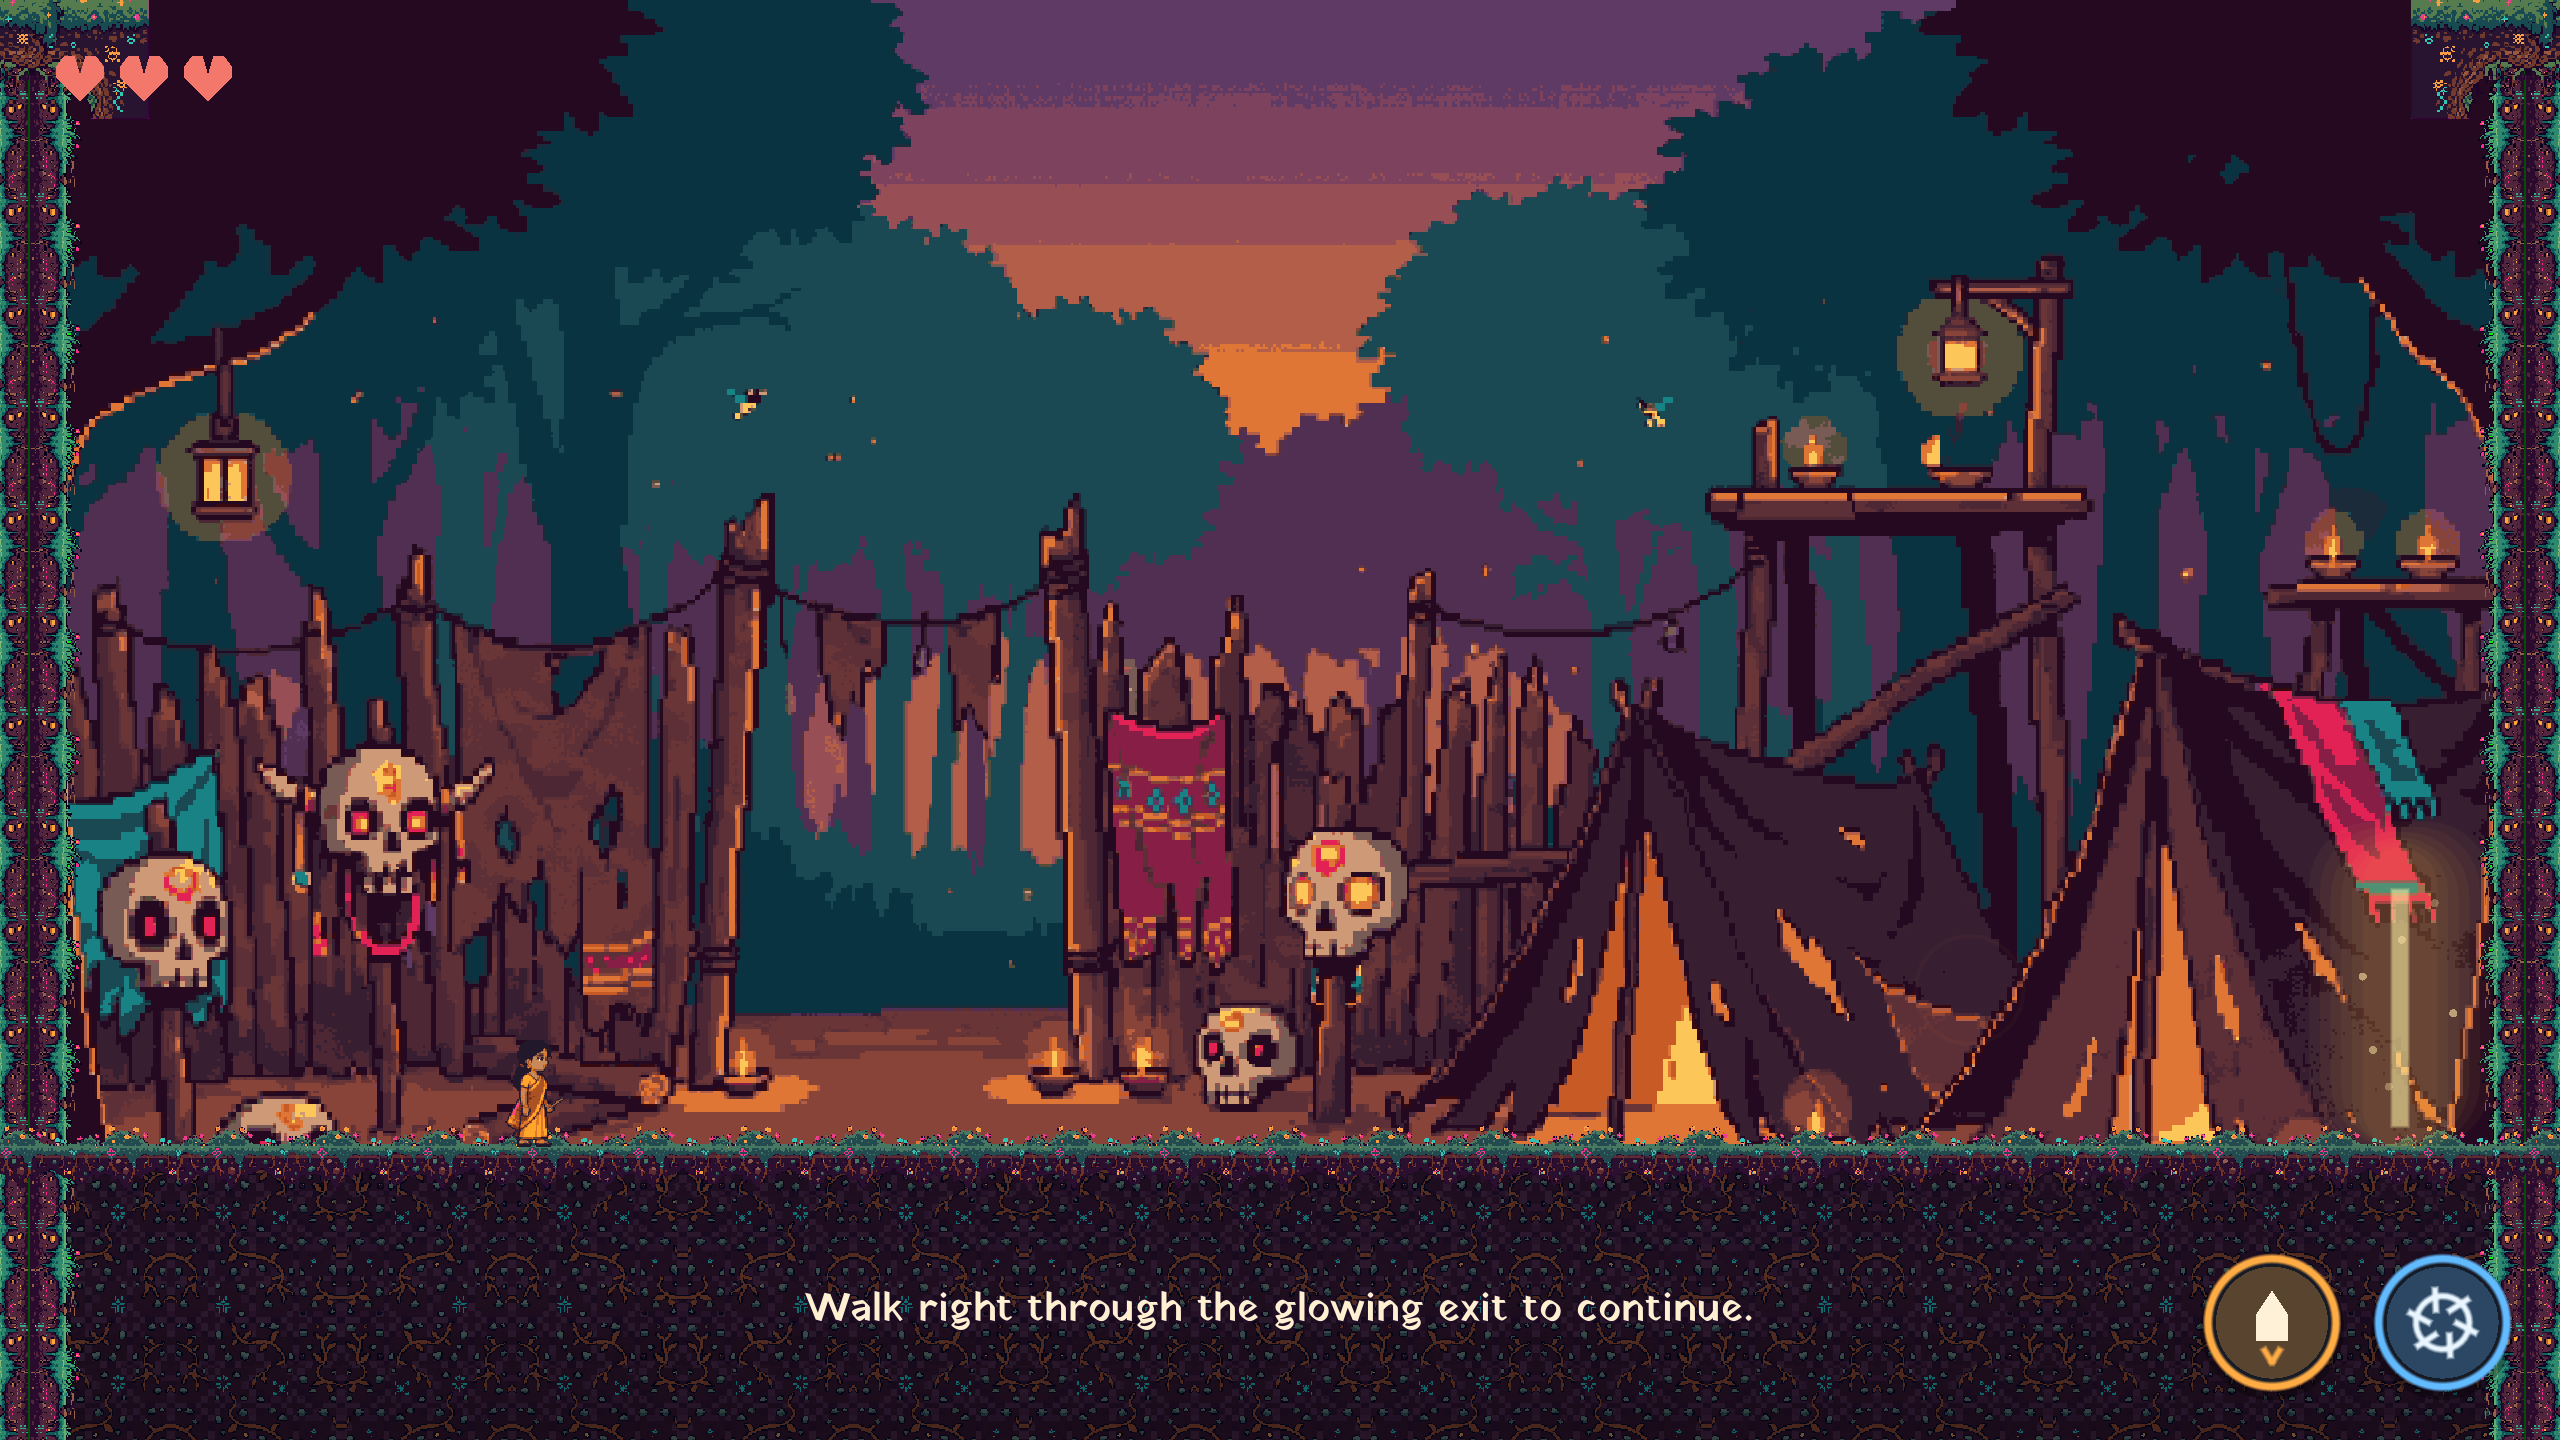
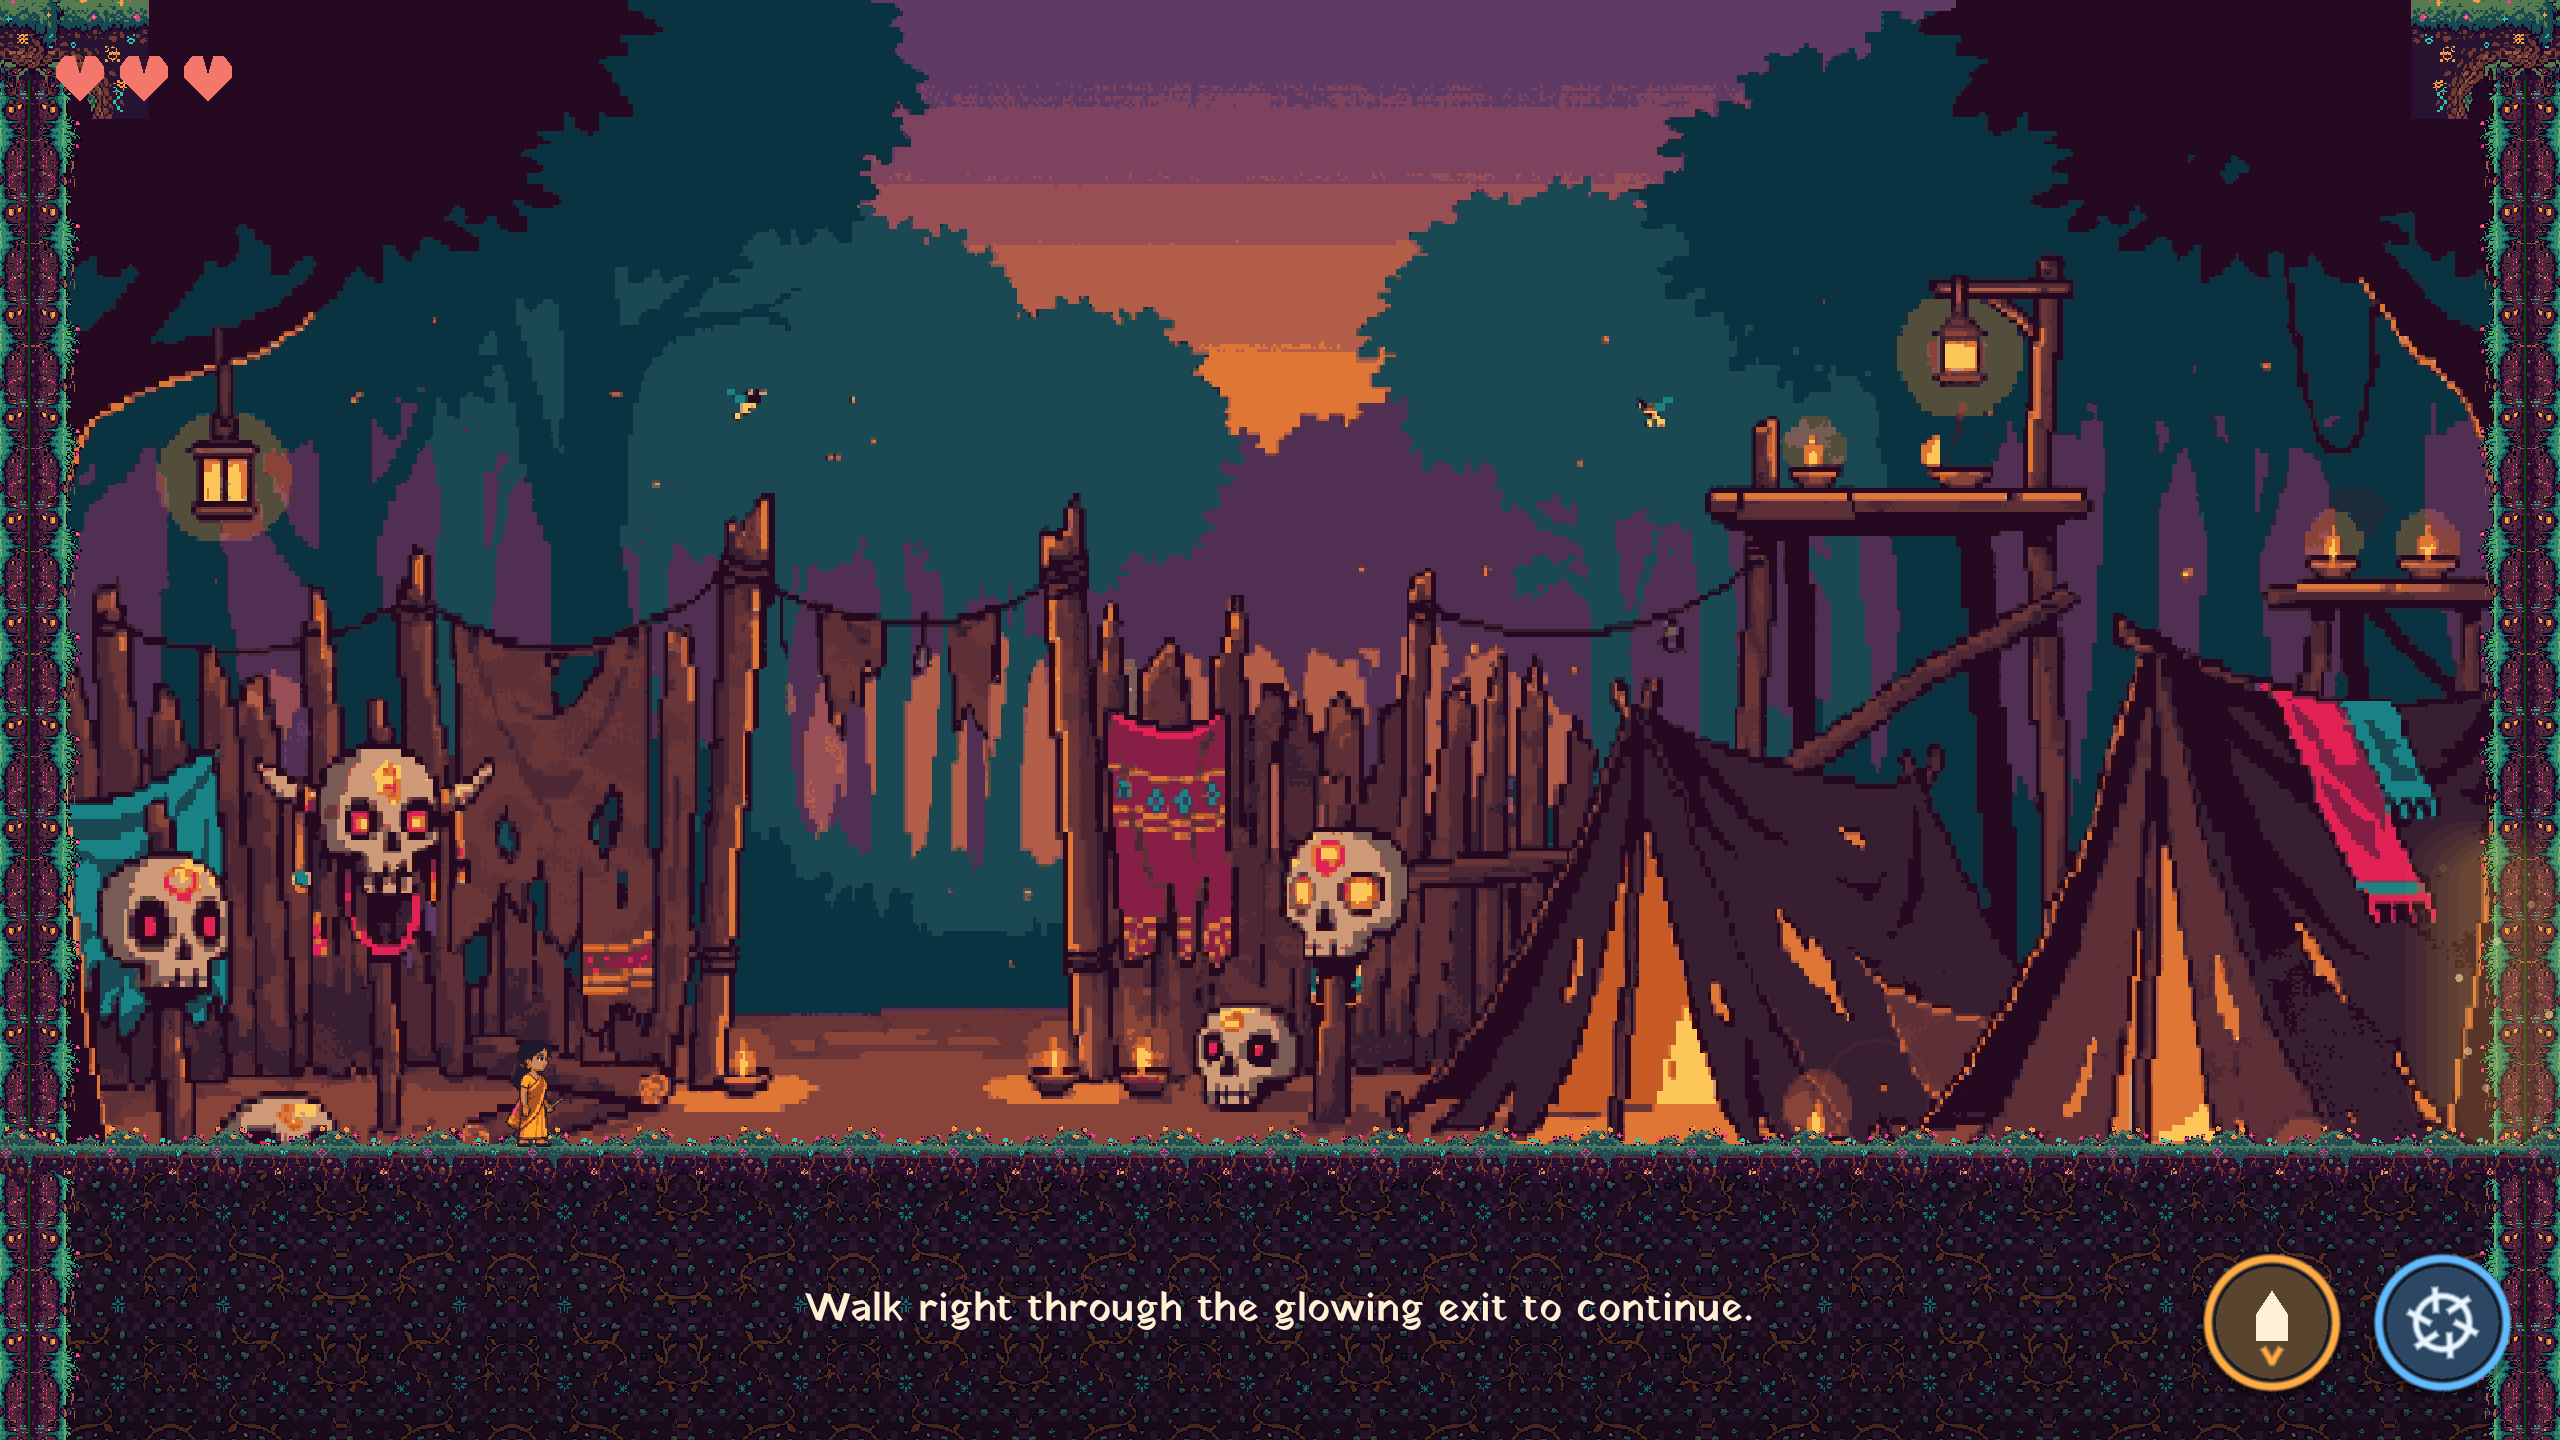
fix: align soft boss exit glow with walls

Changed region(s): [[0.9062, 0.5625, 1.0, 0.8125]]

diff --git a/docs/ending_flow.md b/docs/ending_flow.md
@@ -2,7 +2,8 @@
 
 All three campaign showdowns keep their existing introductions, death animations
 and aftermath dialogue. Defeating Khara, Dhoomketu or Swaminathan unlocks a pulsing
-golden exit on the right and leaves Siya free to move. The palace gates open and
+golden glow flush with the right wall and leaves Siya free to move. The marker
+uses a soft glow and sparks, with no solid bar. The palace gates open and
 Raj joins Siya immediately after Swaminathan's defeat.
 
 Walk into the glow to freeze the arena and close the existing curtain fabric.
